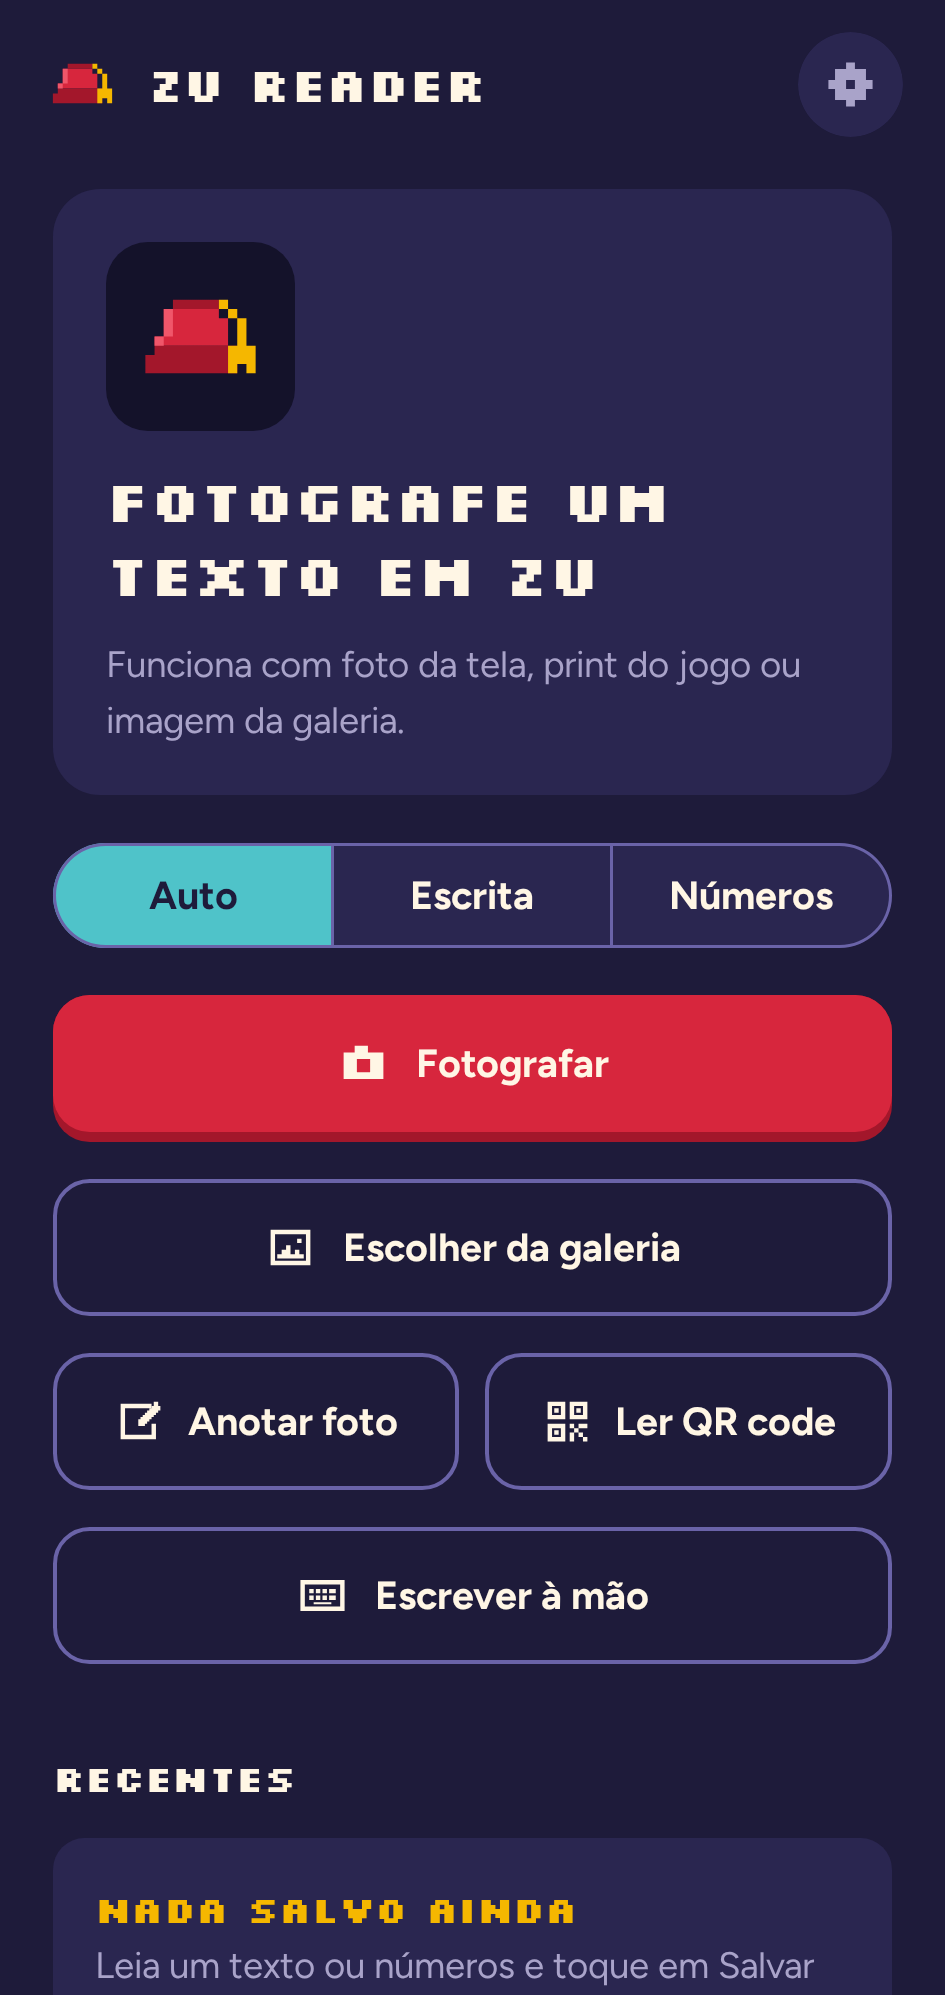
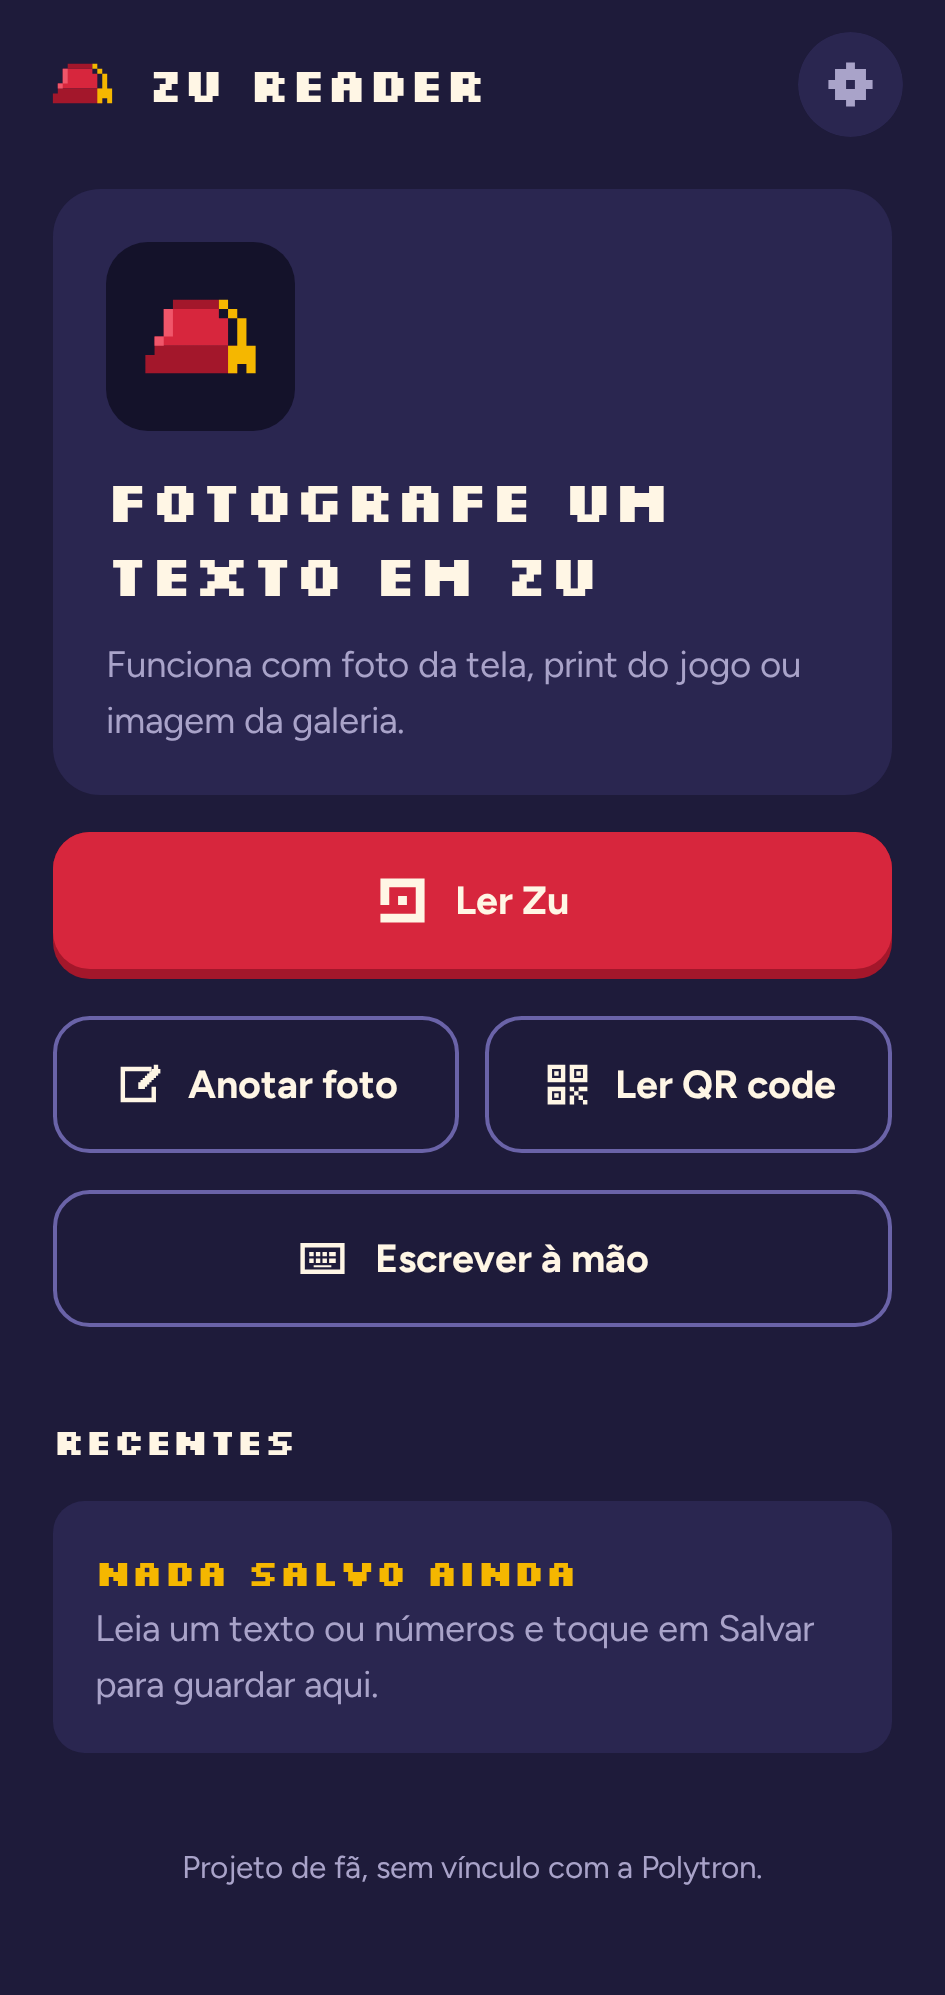
Home shows actions; one source modal for every image action
The home screen lists what to do: Read Zu (primary), Annotate photo and
Read QR code side by side, Write by hand last. Every action that needs
an image opens the same modal (SourceDialog, with the app's buttons):
take a photo or pick from the gallery. The Auto/Text/Numbers selector
moves into the Read Zu modal (it stays in the camera too).

Claude-Session: https://claude.ai/code/session_01BCnJVnooueZi2qjpizvg1o

diff --git a/app/src/main/kotlin/com/davicolzer/zureader/ui/ZuReaderApp.kt b/app/src/main/kotlin/com/davicolzer/zureader/ui/ZuReaderApp.kt
@@ -34,6 +34,8 @@ import com.davicolzer.zureader.ui.write.WriteScreen
 import com.davicolzer.zureader.ui.note.AnnotateScreen
 import com.davicolzer.zureader.ui.note.NoteScreen
 import com.davicolzer.zureader.ui.qr.QrScreen
+import com.davicolzer.zureader.ui.components.ModeSelector
+import com.davicolzer.zureader.ui.components.SourceDialog
 import com.davicolzer.zureader.reader.CameraPurpose
 import androidx.compose.material3.AlertDialog
 import androidx.compose.material3.TextButton
@@ -56,6 +58,19 @@ fun ZuReaderApp(viewModel: ReaderViewModel = viewModel()) {
         if (uri != null) viewModel.annotate(uri)
     }
     var chooseNoteSource by remember { mutableStateOf(false) }
+    // "Ler Zu": escolhe o modo (Auto/Escrita/Números) e de onde vem a imagem
+    var chooseZuSource by remember { mutableStateOf(false) }
+    if (chooseZuSource) {
+        SourceDialog(
+            title = R.string.zu_source_title,
+            body = R.string.zu_source_body,
+            icon = R.drawable.ic_fez_glyph,
+            onCamera = { chooseZuSource = false; viewModel.openCamera() },
+            onGallery = { chooseZuSource = false; pickImage() },
+            onDismiss = { chooseZuSource = false },
+            extra = { ModeSelector(settings.mode, viewModel::setMode) },
+        )
+    }
     // "Ler QR code": a imagem escolhida vai direto para a leitura do QR
     val qrPicker = rememberLauncherForActivityResult(ActivityResultContracts.PickVisualMedia()) { uri ->
         if (uri != null) viewModel.readQr(uri)
@@ -65,6 +80,7 @@ fun ZuReaderApp(viewModel: ReaderViewModel = viewModel()) {
         SourceDialog(
             title = R.string.qr_source_title,
             body = R.string.qr_source_body,
+            icon = R.drawable.ic_pixel_qr,
             onCamera = { chooseQrSource = false; viewModel.openCameraForQr() },
             onGallery = { chooseQrSource = false; qrPicker.launch(PickVisualMediaRequest(ActivityResultContracts.PickVisualMedia.ImageOnly)) },
             onDismiss = { chooseQrSource = false },
@@ -74,6 +90,7 @@ fun ZuReaderApp(viewModel: ReaderViewModel = viewModel()) {
         SourceDialog(
             title = R.string.note_source_title,
             body = R.string.note_source_body,
+            icon = R.drawable.ic_pixel_note,
             onCamera = { chooseNoteSource = false; viewModel.openCameraForNote() },
             onGallery = { chooseNoteSource = false; notePicker.launch(PickVisualMediaRequest(ActivityResultContracts.PickVisualMedia.ImageOnly)) },
             onDismiss = { chooseNoteSource = false },
@@ -82,16 +99,14 @@ fun ZuReaderApp(viewModel: ReaderViewModel = viewModel()) {
 
     when (val s = state) {
         ReaderUiState.Home, ReaderUiState.CouldNotOpen -> HomeScreen(
-            onTakePhoto = viewModel::openCamera,
+            onReadZu = { chooseZuSource = true },
             onOpenSettings = viewModel::openSettings,
-            onPickFromGallery = pickImage,
             errorMessage = if (s == ReaderUiState.CouldNotOpen) stringResource(R.string.error_open_image) else null,
             onErrorShown = viewModel::goHome,
             recent = recent,
             onOpenSaved = viewModel::openSaved,
             onSeeAll = viewModel::openHistory,
             mode = settings.mode,
-            onMode = viewModel::setMode,
             onWrite = { viewModel.openWriter() },
             onAnnotate = { chooseNoteSource = true },
             onReadQr = { chooseQrSource = true },
@@ -216,16 +231,4 @@ private fun ReadingProgress() {
             Text(stringResource(R.string.reading_progress), style = MaterialTheme.typography.titleSmall)
         }
     }
-}
-
-/** "Anotar foto" e "Ler QR code": tirar uma foto ou escolher uma da galeria. */
-@Composable
-private fun SourceDialog(title: Int, body: Int, onCamera: () -> Unit, onGallery: () -> Unit, onDismiss: () -> Unit) {
-    AlertDialog(
-        onDismissRequest = onDismiss,
-        title = { Text(stringResource(title)) },
-        text = { Text(stringResource(body)) },
-        confirmButton = { TextButton(onClick = onCamera) { Text(stringResource(R.string.home_take_photo)) } },
-        dismissButton = { TextButton(onClick = onGallery) { Text(stringResource(R.string.home_pick_gallery)) } },
-    )
 }

diff --git a/app/src/main/kotlin/com/davicolzer/zureader/ui/components/SourceDialog.kt b/app/src/main/kotlin/com/davicolzer/zureader/ui/components/SourceDialog.kt
@@ -1,0 +1,70 @@
+package com.davicolzer.zureader.ui.components
+
+import androidx.annotation.DrawableRes
+import androidx.annotation.StringRes
+import androidx.compose.foundation.layout.Arrangement
+import androidx.compose.foundation.layout.Column
+import androidx.compose.foundation.layout.fillMaxWidth
+import androidx.compose.foundation.layout.padding
+import androidx.compose.foundation.layout.size
+import androidx.compose.foundation.shape.RoundedCornerShape
+import androidx.compose.material3.Icon
+import androidx.compose.material3.MaterialTheme
+import androidx.compose.material3.Surface
+import androidx.compose.material3.Text
+import androidx.compose.material3.TextButton
+import androidx.compose.runtime.Composable
+import androidx.compose.ui.Alignment
+import androidx.compose.ui.Modifier
+import androidx.compose.ui.res.painterResource
+import androidx.compose.ui.res.stringResource
+import androidx.compose.ui.semantics.heading
+import androidx.compose.ui.semantics.semantics
+import androidx.compose.ui.unit.dp
+import androidx.compose.ui.window.Dialog
+import com.davicolzer.zureader.R
+
+/**
+ * Padrão do app para pegar uma imagem: depois de escolher a ação (ler Zu, anotar, ler QR), este
+ * modal pergunta de onde vem a imagem, com os botões do app: tirar foto ou escolher da galeria.
+ * [extra] aparece entre o texto e os botões (ex.: o seletor Auto/Escrita/Números do "Ler Zu").
+ */
+@Composable
+fun SourceDialog(
+    @StringRes title: Int,
+    @StringRes body: Int,
+    @DrawableRes icon: Int,
+    onCamera: () -> Unit,
+    onGallery: () -> Unit,
+    onDismiss: () -> Unit,
+    extra: (@Composable () -> Unit)? = null,
+) {
+    Dialog(onDismissRequest = onDismiss) {
+        Surface(
+            shape = RoundedCornerShape(24.dp),
+            color = MaterialTheme.colorScheme.surfaceContainer,
+            contentColor = MaterialTheme.colorScheme.onSurface,
+            modifier = Modifier.fillMaxWidth(),
+        ) {
+            Column(
+                Modifier.padding(20.dp),
+                verticalArrangement = Arrangement.spacedBy(14.dp),
+            ) {
+                Icon(
+                    painterResource(icon),
+                    contentDescription = null,
+                    tint = MaterialTheme.colorScheme.tertiary,
+                    modifier = Modifier.size(28.dp),
+                )
+                Text(stringResource(title), style = MaterialTheme.typography.titleLarge, modifier = Modifier.semantics { heading() })
+                Text(stringResource(body), style = MaterialTheme.typography.bodyMedium, color = MaterialTheme.colorScheme.onSurfaceVariant)
+                extra?.invoke()
+                PixelPrimaryButton(stringResource(R.string.source_camera), R.drawable.ic_pixel_camera, onClick = onCamera)
+                PixelOutlinedButton(stringResource(R.string.source_gallery), R.drawable.ic_pixel_gallery, onClick = onGallery)
+                TextButton(onClick = onDismiss, modifier = Modifier.align(Alignment.CenterHorizontally)) {
+                    Text(stringResource(R.string.cancel), style = MaterialTheme.typography.labelLarge)
+                }
+            }
+        }
+    }
+}

diff --git a/app/src/main/kotlin/com/davicolzer/zureader/ui/home/HomeScreen.kt b/app/src/main/kotlin/com/davicolzer/zureader/ui/home/HomeScreen.kt
@@ -44,7 +44,6 @@ import androidx.compose.ui.tooling.preview.Preview
 import androidx.compose.ui.unit.dp
 import com.davicolzer.zureader.vision.ModeChoice
 import com.davicolzer.zureader.R
-import com.davicolzer.zureader.ui.components.ModeSelector
 import com.davicolzer.zureader.zu.ReadingMode
 import com.davicolzer.zureader.data.HistoryItem
 import com.davicolzer.zureader.ui.history.HistoryEmpty
@@ -61,8 +60,7 @@ import kotlinx.coroutines.launch
 @OptIn(ExperimentalMaterial3Api::class)
 @Composable
 fun HomeScreen(
-    onTakePhoto: (() -> Unit)? = null,
-    onPickFromGallery: (() -> Unit)? = null,
+    onReadZu: () -> Unit = {},
     onOpenSettings: (() -> Unit)? = null,
     errorMessage: String? = null,
     onErrorShown: () -> Unit = {},
@@ -70,7 +68,6 @@ fun HomeScreen(
     onOpenSaved: (Long) -> Unit = {},
     onSeeAll: () -> Unit = {},
     mode: ModeChoice = ModeChoice.AUTO,
-    onMode: (ModeChoice) -> Unit = {},
     onWrite: () -> Unit = {},
     onAnnotate: () -> Unit = {},
     onReadQr: () -> Unit = {},
@@ -128,16 +125,11 @@ fun HomeScreen(
             verticalArrangement = Arrangement.spacedBy(14.dp),
         ) {
             HeroCard(mode)
-            ModeSelector(mode, onMode)
+            // ações: o que fazer; de onde vem a imagem (câmera ou galeria) é perguntado depois
             PixelPrimaryButton(
-                text = stringResource(R.string.home_take_photo),
-                icon = R.drawable.ic_pixel_camera,
-                onClick = onTakePhoto ?: notYet,
-            )
-            PixelOutlinedButton(
-                text = stringResource(R.string.home_pick_gallery),
-                icon = R.drawable.ic_pixel_gallery,
-                onClick = onPickFromGallery ?: notYet,
+                text = stringResource(R.string.home_read_zu),
+                icon = R.drawable.ic_fez_glyph,
+                onClick = onReadZu,
             )
             // anotar e QR lado a lado
             Row(horizontalArrangement = Arrangement.spacedBy(10.dp)) {

diff --git a/docs/PLANO.md b/docs/PLANO.md
@@ -151,6 +151,7 @@ Fontes: **Silkscreen** (títulos e texto lido, pixel), **Figtree** (interface), 
 | **9. Escrever à mão (teclado Zu)** ✅ | **Terceira opção na tela inicial** ("Escrever à mão"), no mesmo nível de "Fotografar" e "Escolher da galeria". Tudo numa tela só, sem rolagem (a mensagem ocupa o espaço que o teclado deixa; cabe em 360×640 dp). Dois jeitos de digitar: **Glifos** (para quem copia do jogo e não sabe o que os glifos significam: organizados pelo desenho em 6 colunas, uma coluna por forma e uma linha por rotação, `ZuAlphabet.shapes`, e embaixo, depois de uma separação, todos os 16 desenhos de números, com as variantes de 3 a 7; K/Q e U/V numa tecla só, com a letra escolhida pelo contexto do inglês e atualizada enquanto digita, como na leitura de foto, `SharedLetters`) ou **Letras e números** (A–Z e, depois de uma separação, 0–10, um de cada, com K e Q separados; cada tecla mostra a letra e o glifo dela). 6 teclas por linha, com altura que se ajusta à tela (46 dp, até 36 dp em tela baixa, para a mensagem em Zu continuar com espaço); Espaço, Nova coluna (na leitura horizontal, Nova linha: o próximo glifo começa uma coluna nova), Apagar, Limpar e Pronto numa linha. A mensagem em Zu fica sempre legível: as colunas aparecem inteiras, com os glifos do maior tamanho que a altura permite, e se não couberem todas aparecem as mais recentes (onde o usuário está digitando); o texto em inglês mostra o final. A mensagem segue o cursor: o último glifo fica sempre à vista, junto da borda para onde a mensagem cresce (colunas novas à esquerda, linhas novas embaixo). O teclado tem prioridade: tocar na mensagem abre ela inteira em tela cheia, num modal com zoom de dois dedos e o texto completo em inglês; fechar volta a escrever, Espaço, Apagar e Limpar tudo; em cima, a mensagem em Zu em colunas (como no jogo, na direção de leitura escolhida, último glifo em dourado) e o texto em inglês. "Pronto" abre a tela de resultado (copiar, compartilhar, salvar no histórico, zoom); voltar reabre o teclado com o texto. A leitura é exata (`ZuWriter`): o texto montado vira a leitura sem passar pelo leitor de imagens | Testes: texto vira imagem e leitura exata (K/Q do usuário mantido; o leitor de imagens lê a mesma coisa na imagem gerada), números e misto, caixas em cima dos glifos desenhados, salvar e abrir igual. Capturas: [tela inicial](design/home-escrever-android.png), [teclado](design/escrever-vazio-android.png), [glifos](design/escrever-texto-android.png), [letras e números](design/escrever-letras-android.png), [tela pequena](design/escrever-pequeno-android.png), [mensagem longa](design/escrever-longo-android.png), [tela cheia](design/escrever-tela-cheia-android.png), [resultado](design/escrever-resultado-android.png) |
 | **10. QR code** ✅ | Botão próprio **"Ler QR code"** na tela inicial, ao lado de "Anotar foto": câmera com leitura ao vivo (basta apontar; também dá para fotografar) ou galeria, e uma tela só do QR com o conteúdo grande e selecionável, "Abrir link" (se for http/https), Copiar, Compartilhar e "Ler outro"; a tela mostra a imagem de onde o QR foi lido (na câmera ao vivo, o app tira uma foto colorida ao achar o QR), que dá para **recortar**, e **Salvar** guarda imagem e texto no histórico ("QR: …"), reabrindo na mesma tela. Além disso, Toda imagem lida (câmera ou galeria) também é procurada por um QR code (ZXing 3.5.4, sem internet; tenta também com as cores invertidas e reduzida). Se o recorte deixou o QR de fora, procura na foto inteira. No resultado, um cartão mostra o texto inteiro em fonte monoespaçada e selecionável (pode ser um comando para digitar no jogo), com "Abrir link" quando é http/https e "Copiar"; sem glifos, aparece só o QR. Copiar/Compartilhar do rodapé levam o texto do QR junto; o QR vai para o histórico | Testes: link e texto, QR claro sobre escuro, com ruído/JPEG, pequeno no canto de foto grande, imagem sem QR; ida e volta no histórico (com `;`, `|`, quebra de linha e acentos) e leituras antigas sem QR. Capturas: [link](design/qr-link-android.png), [texto](design/qr-texto-android.png) |
 | **11. Anotar foto** ✅ | Opção da tela inicial, ao lado de "Ler QR code" ("Escrever à mão" fica por último): tirar uma foto ou escolher da galeria e anotar por cima — caneta (risco à mão livre), retângulo, círculo e texto, em 4 cores (dourado, vermelho, azul, branco), com desfazer e limpar. Os desenhos ficam em pixels da imagem (a foto salva sai igual à tela; espessura e texto proporcionais à foto). Salvar pede um nome (opcional) e guarda no histórico com a marca "Anotação" (Room 3, coluna `kind`, migração automática); depois dá para ver, anotar mais, compartilhar a imagem (FileProvider) e apagar | Capturas: [editor](design/anotar-editor-android.png), [anotação salva](design/anotar-salva-android.png). Falta testar os gestos num aparelho |
+| **12. Ações primeiro** ✅ | A tela inicial mostra o que fazer: **Ler Zu** (principal), **Anotar foto** e **Ler QR code** lado a lado e **Escrever à mão** por último. Cada ação que precisa de imagem abre o mesmo modal (`SourceDialog`, com os botões do app): **Tirar foto** ou **Escolher da galeria**. No "Ler Zu", o seletor Auto/Escrita/Números fica dentro do modal (e na câmera) | Capturas: [tela inicial](design/home-android.png), [modal do Ler Zu](design/modal-ler-zu-android.png) |
 
 ### Dados de teste
 
